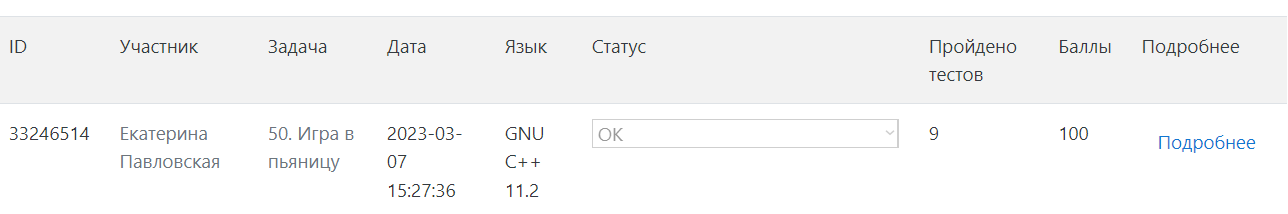
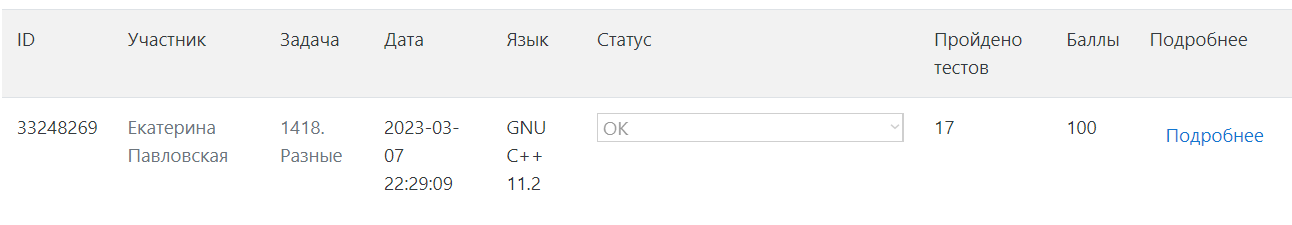
Add files via upload

diff --git a/Разные.cpp b/Разные.cpp
@@ -1,0 +1,21 @@
+#include <iostream>
+#include <set>
+
+using namespace std;
+
+int main() {
+    int n;
+    cin >> n;
+
+    set<int> nums;
+
+    for (int i = 0; i < n; i++) {
+        int x;
+        cin >> x;
+        nums.insert(x);
+    }
+
+    cout << nums.size() << endl;
+
+    return 0;
+}
